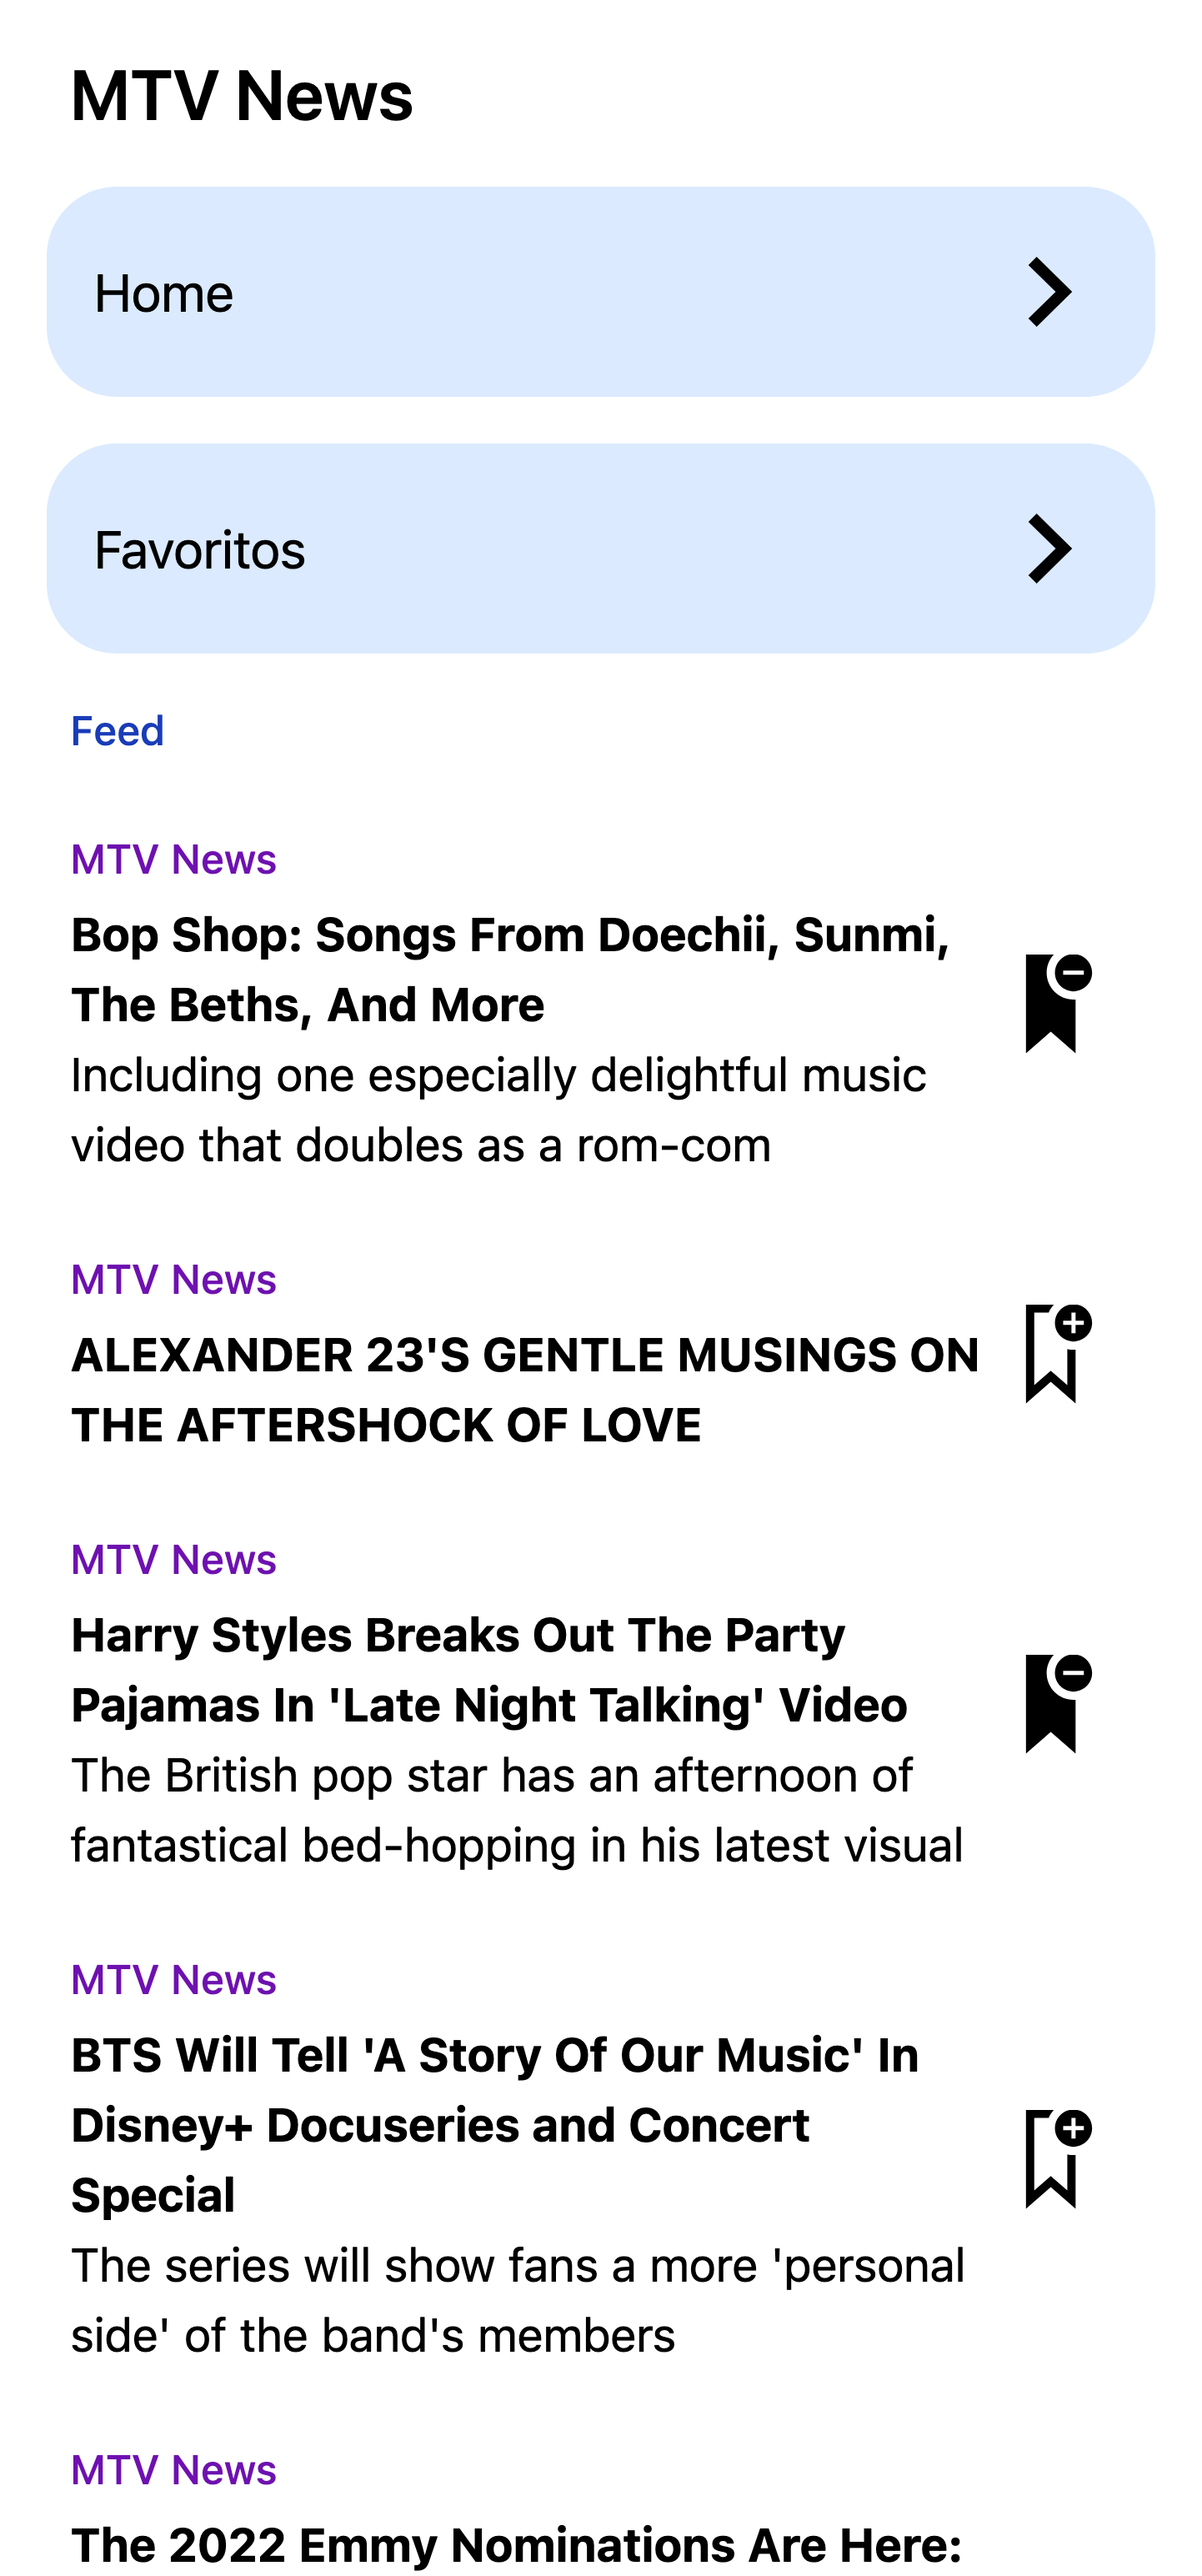
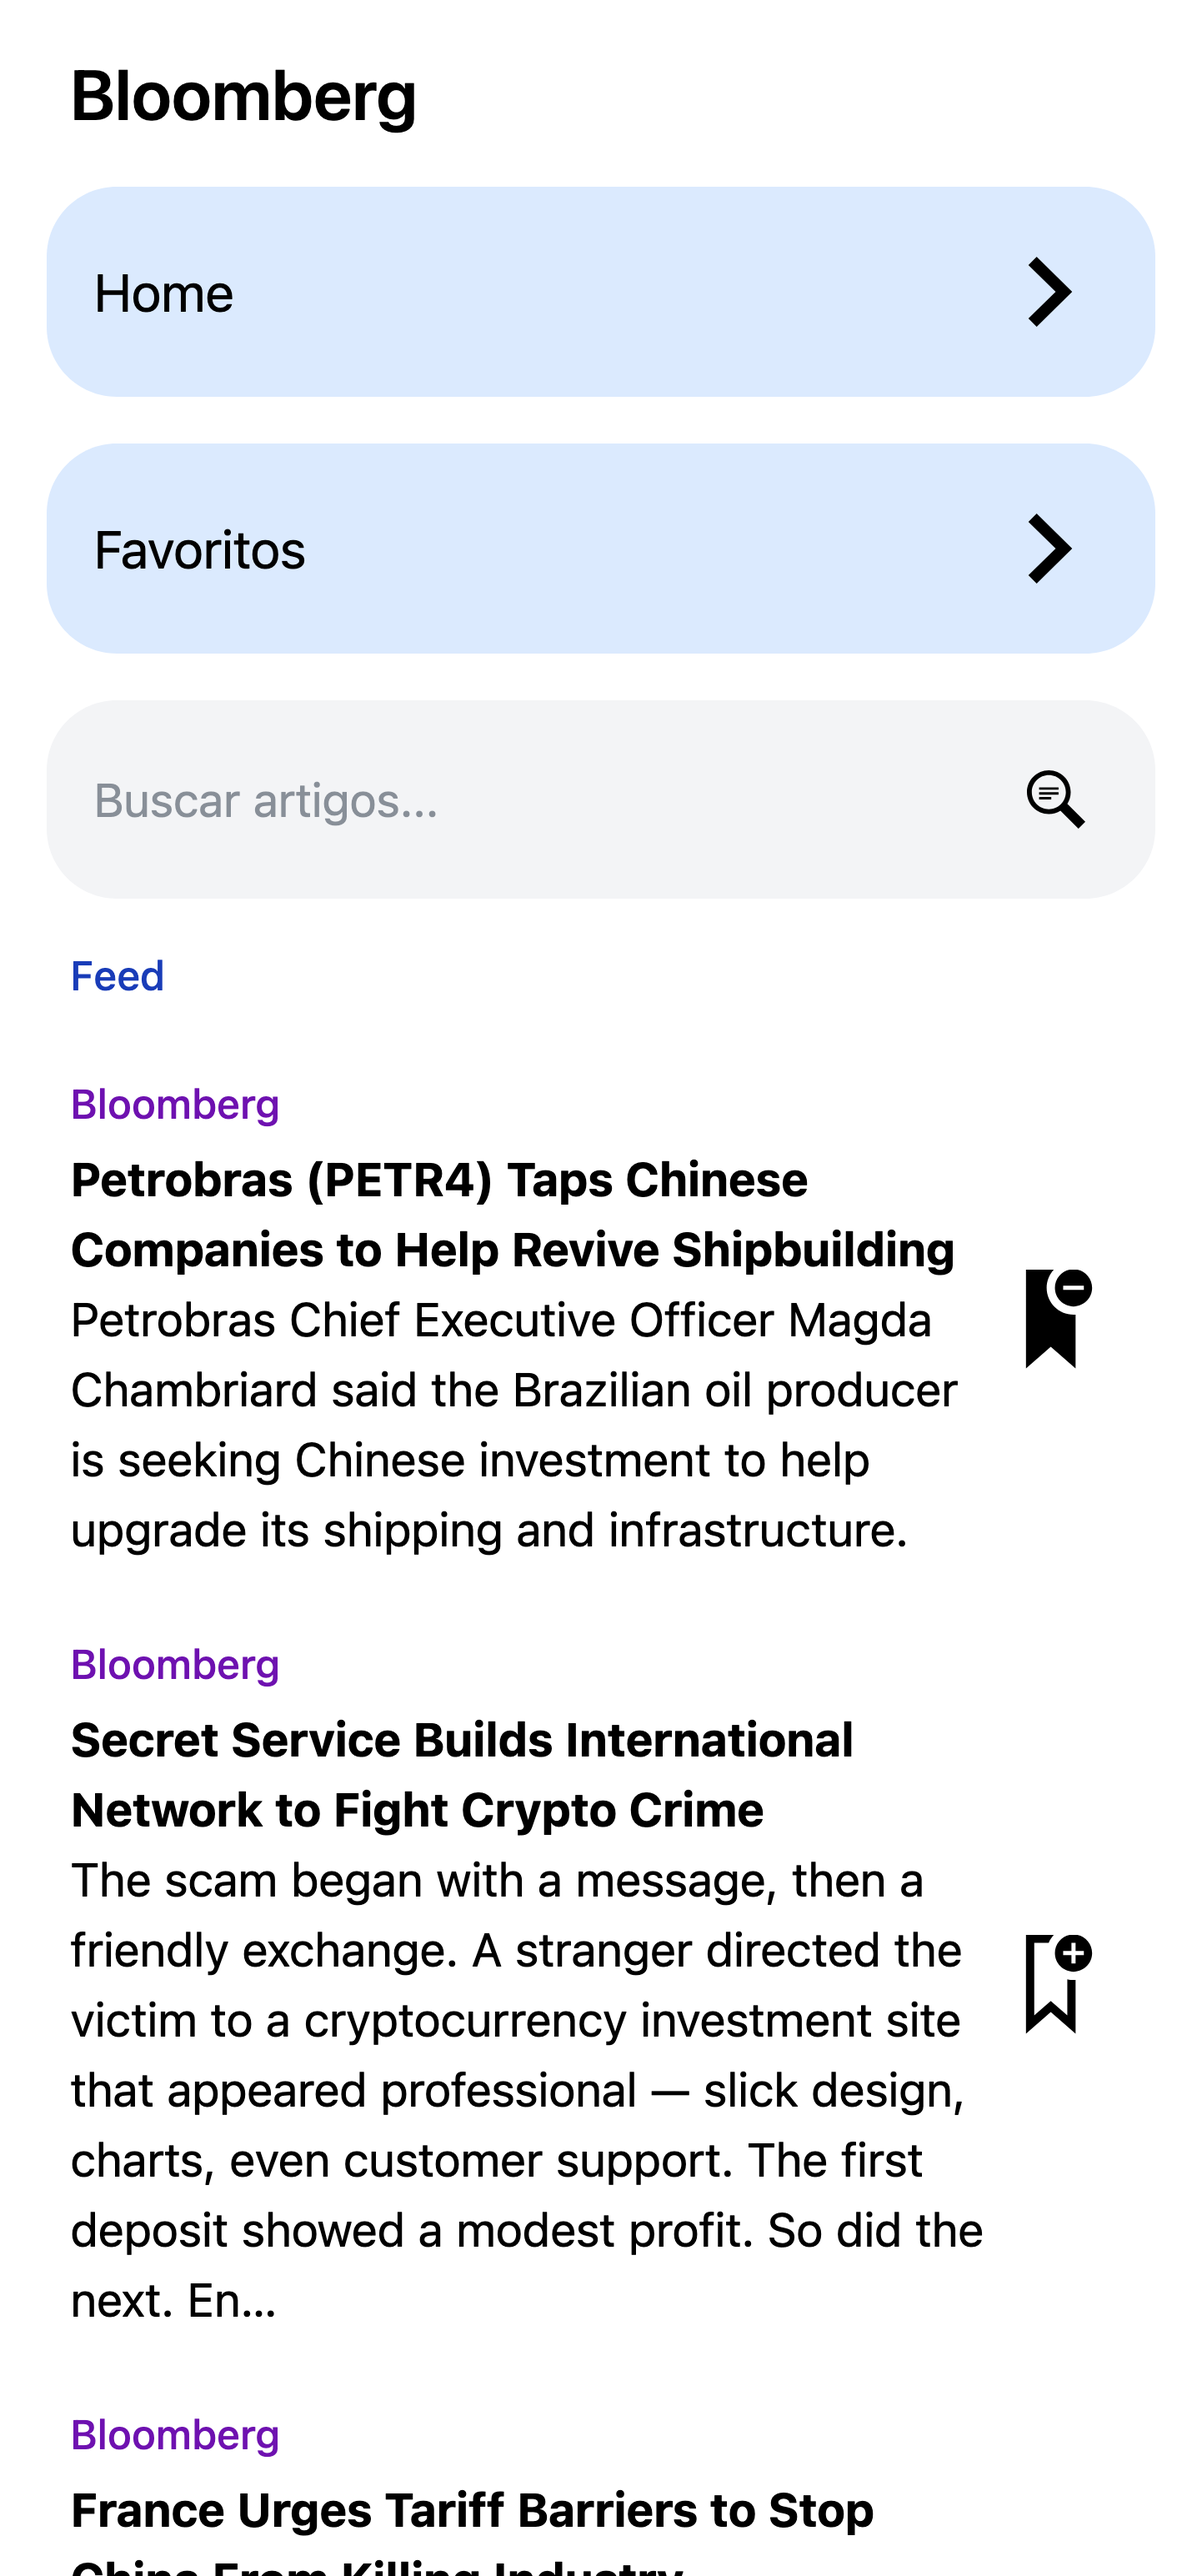
Adicionado o search, corrigido o readme

diff --git a/src/pages/Categoria.tsx b/src/pages/Categoria.tsx
@@ -1,4 +1,4 @@
-import { useParams } from 'react-router-dom';
+import { useLocation, useParams } from 'react-router-dom';
 import Heading from '../components/Heading';
 import ListGroup from '../components/ListGroup';
 import { getNews } from '../hooks/getNews';
@@ -11,10 +11,14 @@ import type { ArticleItem } from '../hooks/interfaces';
 import ListCard from '../components/ListCard';
 import InfoAlert from '../components/InfoAlert';
 import { useState } from 'react';
+import SearchBar from '../components/SearchBar';
 
 export default function Categoria() {
   const { id } = useParams();
-  const { data, error } = getNews(id);
+  const location = useLocation();
+  const queryParams = new URLSearchParams(location.search);
+  const searchQuery = queryParams.get('search');
+  const { data, error } = getNews(id, searchQuery);
   const errorMessage = extractErrorMessage([error]);
   const sourceName = extractSourceName(data);
   const [refresh, setRefresh] = useState(0); // Estado para forçar re-renderização
@@ -23,6 +27,8 @@ export default function Categoria() {
     setRefresh((prev) => prev + 1); // Atualiza o estado para forçar re-renderização
   };
 
+  console.log('Categoria', id, 'Search Query:', searchQuery);
+
   return (
     <>
       <div className="@container flex flex-row px-4">
@@ -30,6 +36,7 @@ export default function Categoria() {
           <Heading title={sourceName} className="px-2" />
           <ListGroup title="Home" to="/" />
           <ListGroup title="Favoritos" to="/favoritos" />
+          <SearchBar />
           <Heading title="Feed" type="sub" className="my-4 px-2" />
           {errorMessage ? (
             <div className="my-4 px-2">

diff --git a/src/components/SearchBar.tsx b/src/components/SearchBar.tsx
@@ -1,0 +1,36 @@
+import { useLocation } from 'react-router-dom';
+import IconSearch from '../assets/svg/search.svg?react';
+import { useState } from 'react';
+
+export default function SearchBar() {
+  const location = useLocation();
+  const queryParams = new URLSearchParams(location.search);
+  const searchQuery = queryParams.get('search');
+  const [query, setQuery] = useState(searchQuery || '');
+
+  const handleInputChange = (event: React.ChangeEvent<HTMLInputElement>) => {
+    setQuery(event.target.value);
+  };
+
+  return (
+    <form
+      //   onSubmit={handleSearch}
+      className="bg-gray-100 dark:bg-gray-600 rounded-3xl p-4 mt-4 flex items-center"
+    >
+      <input
+        name="search"
+        type="text"
+        value={query}
+        onChange={handleInputChange}
+        placeholder="Buscar artigos..."
+        className="flex-grow bg-transparent border-none outline-none text-gray-800 dark:text-gray-200"
+      />
+      <button
+        type="submit"
+        className="cursor-pointer text-white rounded-full p-2 hover:bg-gray-200 hover:dark:bg-gray-400"
+      >
+        <IconSearch className="w-5 h-5 dark:fill-stone-200" />
+      </button>
+    </form>
+  );
+}

diff --git a/src/hooks/getNews.ts b/src/hooks/getNews.ts
@@ -2,7 +2,7 @@ import { useEffect, useState } from 'react';
 import type { ErrorType, NewsItem } from './interfaces';
 import axios from 'axios';
 
-export function getNews(sources: String | undefined) {
+export function getNews(sources: String | undefined, search?: string | null) {
   const [data, setData] = useState<NewsItem>();
   const [error, setError] = useState<ErrorType | undefined>();
 
@@ -15,6 +15,7 @@ export function getNews(sources: String | undefined) {
             params: {
               apiKey: import.meta.env.VITE_NEWS_APP_KEY,
               sources: sources,
+              q: search,
             },
           }
         );

diff --git a/README.md b/README.md
@@ -2,29 +2,6 @@
 
 Pequeno aplicativo de notícias que permite aos usuários listar e salvar suas notícias favoritas no localStorage. Feito em apenas 1 dia (algo em torno de 8h total).
 
-## Imagens do Projeto
-
-![Tela Inicial](public/home.png)
-_Tela inicial_
-
-![Tela Notícias em branco](public/categoria_blank.png)
-_Tela noticias caso não existam artigos_
-
-![Tela Noticias com Artigos](public/categoria.png)
-_Tela noticias com artigos_
-
-![Tela Favoritos](public/favoritos_blank.png)
-_Tela favoritos_
-
-![Tela Favoritos com Artigos Salvos](public/favoritos.png)
-_Tela favoritos com artigos salvos_
-
-![Tela Inicial em Dark Mode](public/home_dark.png)
-_Tela inicial em dark mode_
-
-![Tela Favoritos em Dark Mode](public/favoritos_dark.png)
-_Tela favoritos em dark mode_
-
 ## O Que foi utilizado
 
 - [Vite](https://vitejs.dev/)
@@ -55,6 +32,38 @@ _Tela favoritos em dark mode_
 
 ## Decisões técnicas principais
 
+- Fazer o maximo possivel em apenas 1 dia.
+- Mentalidade MVP (Minimum Viable Product) focado em funcionalidades.
+- Orientado ao frontend.
+- Implementar dark mode.
+- Implementar pwa.
+
 ## O que faria com mais tempo
 
-Com certeza substituiria o vite pelo nextjs.
+- Substituiria o vite pelo nextjs.
+- Salvaria em localStorage as preferencias visuais do usuário.
+- Adicionaria filtros em todas as páginas em vez de uma busca simples apenas na listagem de noticias.
+- Adicionaria teste.
+
+## Imagens do Projeto
+
+![Tela Inicial](public/home.png)
+_Tela inicial_
+
+![Tela Notícias em branco](public/categoria_blank.png)
+_Tela noticias caso não existam artigos_
+
+![Tela Noticias com Artigos](public/categoria.png)
+_Tela noticias com artigos_
+
+![Tela Favoritos](public/favoritos_blank.png)
+_Tela favoritos_
+
+![Tela Favoritos com Artigos Salvos](public/favoritos.png)
+_Tela favoritos com artigos salvos_
+
+![Tela Inicial em Dark Mode](public/home_dark.png)
+_Tela inicial em dark mode_
+
+![Tela Favoritos em Dark Mode](public/favorito_dark.png)
+_Tela favoritos em dark mode_
